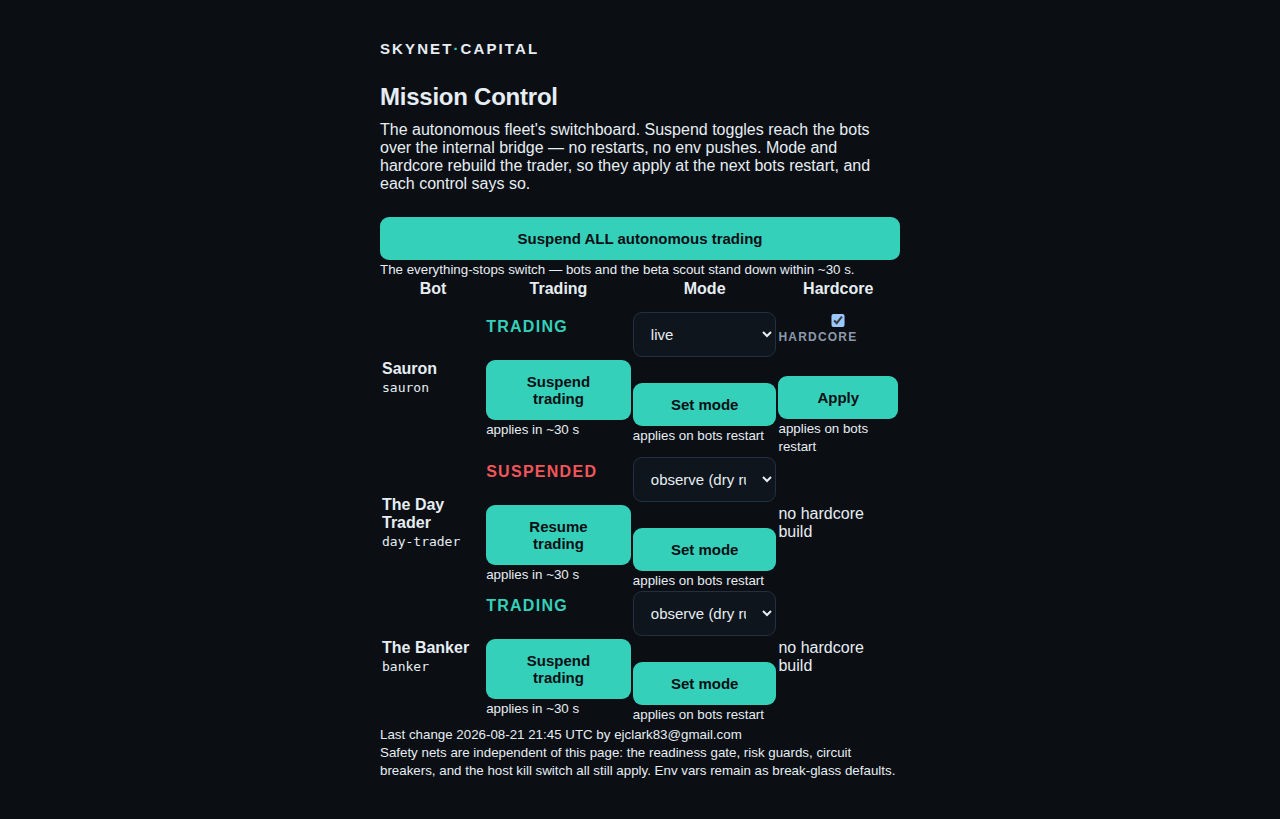
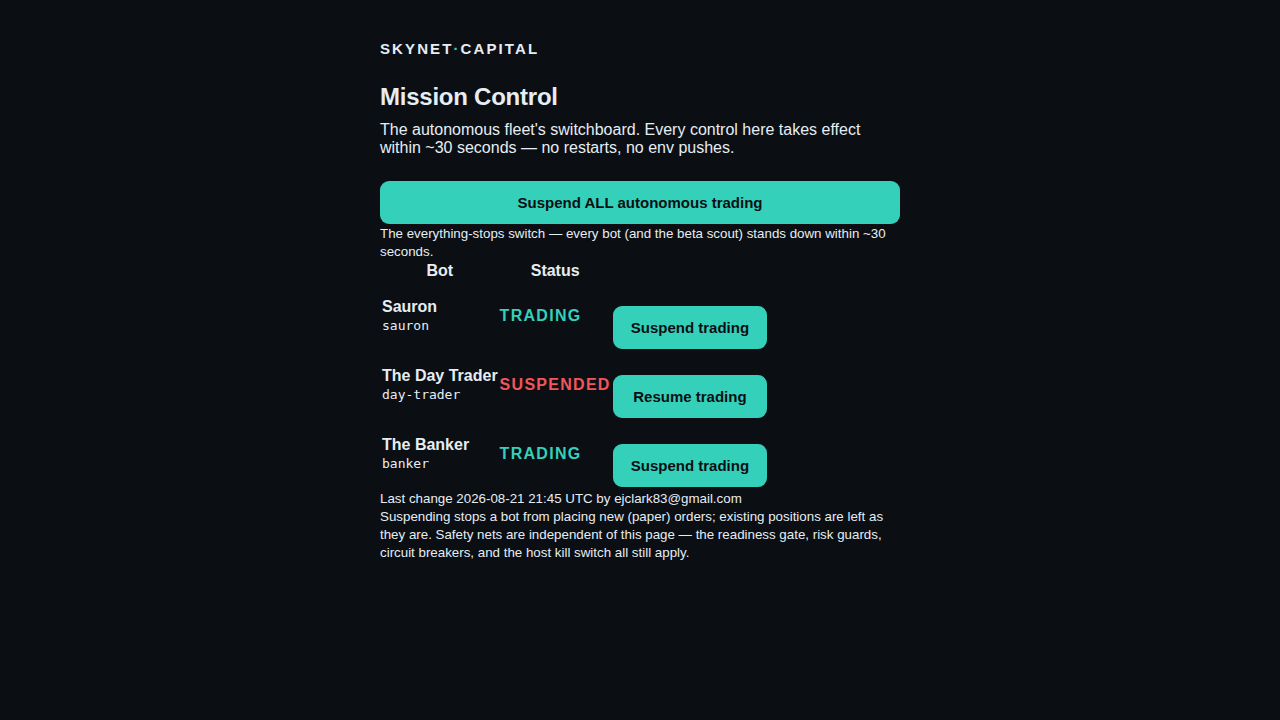
feat(controls): trim mission control v1 to suspend/resume only
Eric's review (2026-08-21): start with the easy features. The mode and
hardcore knobs explained nothing at the point of use and were the only
controls needing a bots restart — both retired from the page (and refused
by the action handler, not merely hidden). What remains is one status and
one button per bot plus the global stop, every control effective in ~30s
with no restart. The store schema and runner overrides stay in place for
when those knobs earn a self-explanatory control.

Claude-Session: https://claude.ai/code/session_01EA6fUkVk57k31yJhzUWXrL

Changed region(s): [[0.2812, 0.0306, 0.7188, 0.9472]]

diff --git a/src/server/controls-form.ts b/src/server/controls-form.ts
@@ -9,16 +9,17 @@ import { handleSelfServiceForm, requireOwner } from "./self-service-forms.js";
  * `/controls` — MISSION CONTROL: the owner's switchboard for the autonomous fleet (Eric,
  * 2026-08-21: settings belong behind toggles, not env pushes).
  *
+ * V1 is DELIBERATELY only the suspend/resume toggles (Eric's follow-up, same day: start with the
+ * easy features; mode/hardcore/persona knobs confused more than they controlled). Everything on
+ * this page acts within ~30 s with no restart — the store schema and the runner already support
+ * mode/hardcore overrides, but those stay env-only until they earn a self-explanatory control.
+ *
  * Security model, in order of the walls:
  *  1. The whole observatory sits behind the invite-gated login.
  *  2. This page answers only to OWNERS (env-allowlisted identities) — members get the same 403 a
  *     signed-out probe gets, exactly like `/invite`, so its existence leaks nothing.
  *  3. State-changing POSTs additionally require a same-origin `Sec-Fetch-Site` when the browser
  *     sends one — a cross-site form can't flip the fleet's switches with a rider's cookie.
- *
- * Honesty about latency is part of the design: suspend/resume is DYNAMIC (the bots process polls
- *  the internal bridge, ~30 s); mode and hardcore rebuild the trader, so they apply at the next
- * bots restart — each control says which, in place.
  */
 export interface ControlsDeps {
   readonly store: BotControlsStore;
@@ -26,8 +27,6 @@ export interface ControlsDeps {
   readonly isOwner: (email: string) => boolean;
   /** The bots currently on the board (id + display name), from the live hub. */
   readonly bots: () => ReadonlyArray<{ readonly id: string; readonly displayName: string }>;
-  /** Whether a bot id has a hardcore research build to offer (see personas/registry.ts). */
-  readonly hasHardcore: (id: string) => boolean;
   readonly now?: () => Date;
 }
 
@@ -66,7 +65,8 @@ function sameOrigin(req: IncomingMessage): boolean {
 
 type ActionResult = { ok: boolean; note: string };
 
-/** One POST = one switch flipped. Unknown actions/bots refuse loudly — never guess on a control plane. */
+/** One POST = one switch flipped. The action surface is exactly what the page renders — a control
+ *  plane accepts nothing it doesn't show. Unknown actions/bots refuse loudly, never guess. */
 function applyAction(form: URLSearchParams, editor: string, deps: ControlsDeps): ActionResult {
   const action = form.get("action") ?? "";
   const at = deps.now?.() ?? new Date();
@@ -75,21 +75,25 @@ function applyAction(form: URLSearchParams, editor: string, deps: ControlsDeps):
       deps.store.setAllSuspended(action === "suspend-all", editor, at);
       return okNote(
         action === "suspend-all"
-          ? "All autonomous trading suspended — the fleet stands down within ~30 s."
-          : "Global suspend lifted — bots resume their own settings within ~30 s.",
+          ? "All autonomous trading suspended — the fleet stands down within ~30 seconds."
+          : "Global suspend lifted — bots resume their own settings within ~30 seconds.",
       );
+    }
+    if (action !== "suspend" && action !== "resume") {
+      return { ok: false, note: `<p class="err">Unknown action.</p>` };
     }
 
     const botId = form.get("bot") ?? "";
     if (!deps.bots().some((b) => b.id === botId)) {
       return { ok: false, note: `<p class="err">Unknown bot.</p>` };
     }
-    const patch = patchFor(action, form, deps, botId);
-    if (!patch) {
-      return { ok: false, note: `<p class="err">Unknown action.</p>` };
-    }
-    deps.store.setBot(botId, patch.controls, editor, at);
-    return okNote(patch.note);
+    const suspended = action === "suspend";
+    deps.store.setBot(botId, { suspended }, editor, at);
+    return okNote(
+      suspended
+        ? "Trading suspended — takes effect within ~30 seconds, no restart needed."
+        : "Trading resumed — takes effect within ~30 seconds.",
+    );
   } catch (err) {
     return { ok: false, note: `<p class="err">Couldn't save: ${escapeHtml(String(err))}</p>` };
   }
@@ -99,81 +103,23 @@ function okNote(note: string): ActionResult {
   return { ok: true, note: `<p class="ok">${note}</p>` };
 }
 
-function patchFor(
-  action: string,
-  form: URLSearchParams,
-  deps: ControlsDeps,
-  botId: string,
-): { controls: BotControls; note: string } | null {
-  if (action === "suspend" || action === "resume") {
-    const suspended = action === "suspend";
-    return {
-      controls: { suspended },
-      note: suspended
-        ? "Trading suspended — takes effect within ~30 s, no restart needed."
-        : "Trading resumed — takes effect within ~30 s.",
-    };
-  }
-  if (action === "set-mode") {
-    const mode = form.get("mode");
-    if (mode !== "observe" && mode !== "live") return null;
-    return {
-      controls: { mode },
-      note: `Mode set to <b>${mode}</b> — applies at the next bots restart.`,
-    };
-  }
-  if (action === "set-hardcore") {
-    if (!deps.hasHardcore(botId)) return null; // no build = no switch, never a silent no-op
-    const hardcore = form.get("hardcore") === "on";
-    return {
-      controls: { hardcore },
-      note: `Hardcore research mode ${hardcore ? "armed" : "disarmed"} — applies at the next bots restart.`,
-    };
-  }
-  return null;
-}
-
 // --- rendering --------------------------------------------------------------------------------
 
-function botRow(
-  bot: { id: string; displayName: string },
-  controls: BotControls,
-  hasHardcore: boolean,
-): string {
+function botRow(bot: { id: string; displayName: string }, controls: BotControls): string {
   const id = escapeHtml(bot.id);
   const suspended = controls.suspended === true;
   // Green-means-trading / red-means-suspended, the market-color rule (docs/BRAND.md).
   const stateChip = suspended
     ? `<span style="color:#F2555A;font-weight:700;letter-spacing:.08em">SUSPENDED</span>`
     : `<span style="color:#35D0BA;font-weight:700;letter-spacing:.08em">TRADING</span>`;
-  const suspendForm = `<form method="post" action="/controls" class="inlineform">
-      <input type="hidden" name="bot" value="${id}">
-      <input type="hidden" name="action" value="${suspended ? "resume" : "suspend"}">
-      <button type="submit">${suspended ? "Resume trading" : "Suspend trading"}</button>
-    </form>`;
-  const modeForm = `<form method="post" action="/controls" class="inlineform">
-      <input type="hidden" name="bot" value="${id}">
-      <input type="hidden" name="action" value="set-mode">
-      <select name="mode">
-        <option value="observe"${controls.mode === "observe" ? " selected" : ""}>observe (dry run)</option>
-        <option value="live"${controls.mode === "live" ? " selected" : ""}>live</option>
-      </select>
-      <button type="submit">Set mode</button>
-    </form>`;
-  const hardcoreForm = hasHardcore
-    ? `<form method="post" action="/controls" class="inlineform">
-      <input type="hidden" name="bot" value="${id}">
-      <input type="hidden" name="action" value="set-hardcore">
-      <label><input type="checkbox" name="hardcore"${controls.hardcore ? " checked" : ""}> hardcore</label>
-      <button type="submit">Apply</button>
-    </form>`
-    : `<span class="muted">no hardcore build</span>`;
-
   return `<tr>
       <td><b>${escapeHtml(bot.displayName)}</b><br><code>${id}</code></td>
-      <td>${stateChip}<br>${suspendForm}<small>applies in ~30 s</small></td>
-      <td>${modeForm}<small>applies on bots restart</small></td>
-      <td>${hardcoreForm}${hasHardcore ? "<small>applies on bots restart</small>" : ""}</td>
+      <td>${stateChip}</td>
+      <td><form method="post" action="/controls" class="inlineform">
+        <input type="hidden" name="bot" value="${id}">
+        <input type="hidden" name="action" value="${suspended ? "resume" : "suspend"}">
+        <button type="submit">${suspended ? "Resume trading" : "Suspend trading"}</button>
+      </form></td>
     </tr>`;
 }
 
@@ -181,27 +127,27 @@ function panelHtml(deps: ControlsDeps): string {
   const state: ControlsState = deps.store.load();
   const bots = deps.bots();
   const rows = bots.length
-    ? bots.map((b) => botRow(b, state.bots[b.id] ?? {}, deps.hasHardcore(b.id))).join("")
-    : `<tr><td colspan="4">No bots on the board.</td></tr>`;
+    ? bots.map((b) => botRow(b, state.bots[b.id] ?? {})).join("")
+    : `<tr><td colspan="3">No bots on the board.</td></tr>`;
   const globalBanner = state.allSuspended
-    ? `<p class="err"><b>ALL AUTONOMOUS TRADING IS SUSPENDED.</b> Individual settings resume when lifted.</p>
+    ? `<p class="err"><b>ALL AUTONOMOUS TRADING IS SUSPENDED.</b> Lift it and each bot returns to its own setting below.</p>
        <form method="post" action="/controls"><input type="hidden" name="action" value="resume-all">
        <button type="submit">Lift global suspend</button></form>`
     : `<form method="post" action="/controls"><input type="hidden" name="action" value="suspend-all">
        <button type="submit">Suspend ALL autonomous trading</button></form>
-       <p><small>The everything-stops switch — bots and the beta scout stand down within ~30 s.</small></p>`;
+       <p><small>The everything-stops switch — every bot (and the beta scout) stands down within ~30 seconds.</small></p>`;
   const audit = state.updatedAt
     ? `<p><small>Last change ${escapeHtml(state.updatedAt.slice(0, 16).replace("T", " "))} UTC by ${escapeHtml(state.updatedBy ?? "unknown")}</small></p>`
     : "";
 
   return `<h1>Mission Control</h1>
-<p>The autonomous fleet's switchboard. Suspend toggles reach the bots over the internal bridge —
-no restarts, no env pushes. Mode and hardcore rebuild the trader, so they apply at the next bots
-restart, and each control says so.</p>
+<p>The autonomous fleet's switchboard. Every control here takes effect within ~30 seconds —
+no restarts, no env pushes.</p>
 ${globalBanner}
-<table><thead><tr><th>Bot</th><th>Trading</th><th>Mode</th><th>Hardcore</th></tr></thead>
+<table><thead><tr><th>Bot</th><th>Status</th><th></th></tr></thead>
 <tbody>${rows}</tbody></table>
 ${audit}
-<p><small>Safety nets are independent of this page: the readiness gate, risk guards, circuit
-breakers, and the host kill switch all still apply. Env vars remain as break-glass defaults.</small></p>`;
+<p><small>Suspending stops a bot from placing new (paper) orders; existing positions are left as
+they are. Safety nets are independent of this page — the readiness gate, risk guards, circuit
+breakers, and the host kill switch all still apply.</small></p>`;
 }

diff --git a/tests/server/controls-form.spec.ts b/tests/server/controls-form.spec.ts
@@ -27,7 +27,6 @@ async function withControls(
     store,
     isOwner: (email) => OWNERS.has(email),
     bots: () => BOTS,
-    hasHardcore: (id) => id === "sauron",
     now: () => new Date("2026-08-21T12:00:00.000Z"),
   };
   const server: Server = createServer((req, res) => {
@@ -75,10 +74,11 @@ describe("Mission Control (/controls)", () => {
       const html = await (await fetch(`${base}/controls`)).text();
       expect(html).toContain("Mission Control");
       expect(html).toContain("Sauron");
-      expect(html).toContain("applies in ~30 s");
-      expect(html).toContain("applies on bots restart");
-      // Only bots with a hardcore build get the switch.
-      expect(html).toContain("no hardcore build");
+      expect(html).toContain("within ~30 seconds");
+      // V1 is suspend-only (Eric, 2026-08-21): no restart-gated knobs on the page at all.
+      expect(html).not.toContain("bots restart");
+      expect(html).not.toContain("hardcore");
+      expect(html).not.toContain("observe");
     });
   });
 
@@ -103,21 +103,24 @@ describe("Mission Control (/controls)", () => {
     });
   });
 
-  it("records mode and hardcore as boot-applied settings", async () => {
+  it("stamps who changed what", async () => {
     await withControls("owner@example.com", store, async (base) => {
-      await post(base, { action: "set-mode", bot: "sauron", mode: "observe" });
-      await post(base, { action: "set-hardcore", bot: "sauron", hardcore: "on" });
-      expect(store.load().bots.sauron).toMatchObject({ mode: "observe", hardcore: true });
+      await post(base, { action: "suspend", bot: "sauron" });
       expect(store.load().updatedBy).toBe("owner@example.com");
+      expect(store.load().updatedAt).toBe("2026-08-21T12:00:00.000Z");
     });
   });
 
-  it("refuses unknown bots, unknown actions, and hardcore on a bot with no build", async () => {
+  it("refuses unknown bots and any action the page does not render", async () => {
     await withControls("owner@example.com", store, async (base) => {
       expect((await post(base, { action: "suspend", bot: "nobody" })).status).toBe(400);
       expect((await post(base, { action: "explode", bot: "sauron" })).status).toBe(400);
+      // The retired knobs are not merely hidden — the control plane refuses them outright.
+      expect((await post(base, { action: "set-mode", bot: "sauron", mode: "live" })).status).toBe(
+        400,
+      );
       expect(
-        (await post(base, { action: "set-hardcore", bot: "banker", hardcore: "on" })).status,
+        (await post(base, { action: "set-hardcore", bot: "sauron", hardcore: "on" })).status,
       ).toBe(400);
       expect(store.load()).toEqual({ bots: {} });
     });

diff --git a/src/scripts/serve-dashboard.ts b/src/scripts/serve-dashboard.ts
@@ -30,7 +30,7 @@ import { startHistorySampler } from "../observatory/history-sampler.js";
 import { TransitionBaseline } from "../observatory/transition-baseline.js";
 import { dedupeById } from "../participants/participant.js";
 import { createParticipantStore } from "../participants/participant-store.js";
-import { createDefaultPersonas, hasHardcoreBuild } from "../personas/registry.js";
+import { createDefaultPersonas } from "../personas/registry.js";
 import { resolveDataSource } from "../runtime/data-source.js";
 import { createAccountService } from "../server/account-service.js";
 import { createAllowlistStore } from "../server/auth/allowlist-store.js";
@@ -226,7 +226,6 @@ async function main(): Promise<void> {
                 .getState()
                 .participants.filter((p) => p.kind === "bot" && knownPersonaIds.has(p.id))
                 .map((p) => ({ id: p.id, displayName: p.displayName })),
-            hasHardcore: hasHardcoreBuild,
           },
         }
       : {}),

diff --git a/src/personas/registry.ts b/src/personas/registry.ts
@@ -48,11 +48,6 @@ const HARDCORE_BUILDS: Readonly<Record<string, () => Persona>> = {
   sauron: () => new SauronHardcorePersona(),
 };
 
-/** Whether a persona id has a hardcore build to offer — Mission Control shows the switch only then. */
-export function hasHardcoreBuild(id: string): boolean {
-  return Boolean(HARDCORE_BUILDS[id]);
-}
-
 export interface HardcoreRoster {
   readonly personas: Persona[];
   /** Ids actually swapped to their hardcore build (the runner tunes cooldown + pack by these). */
